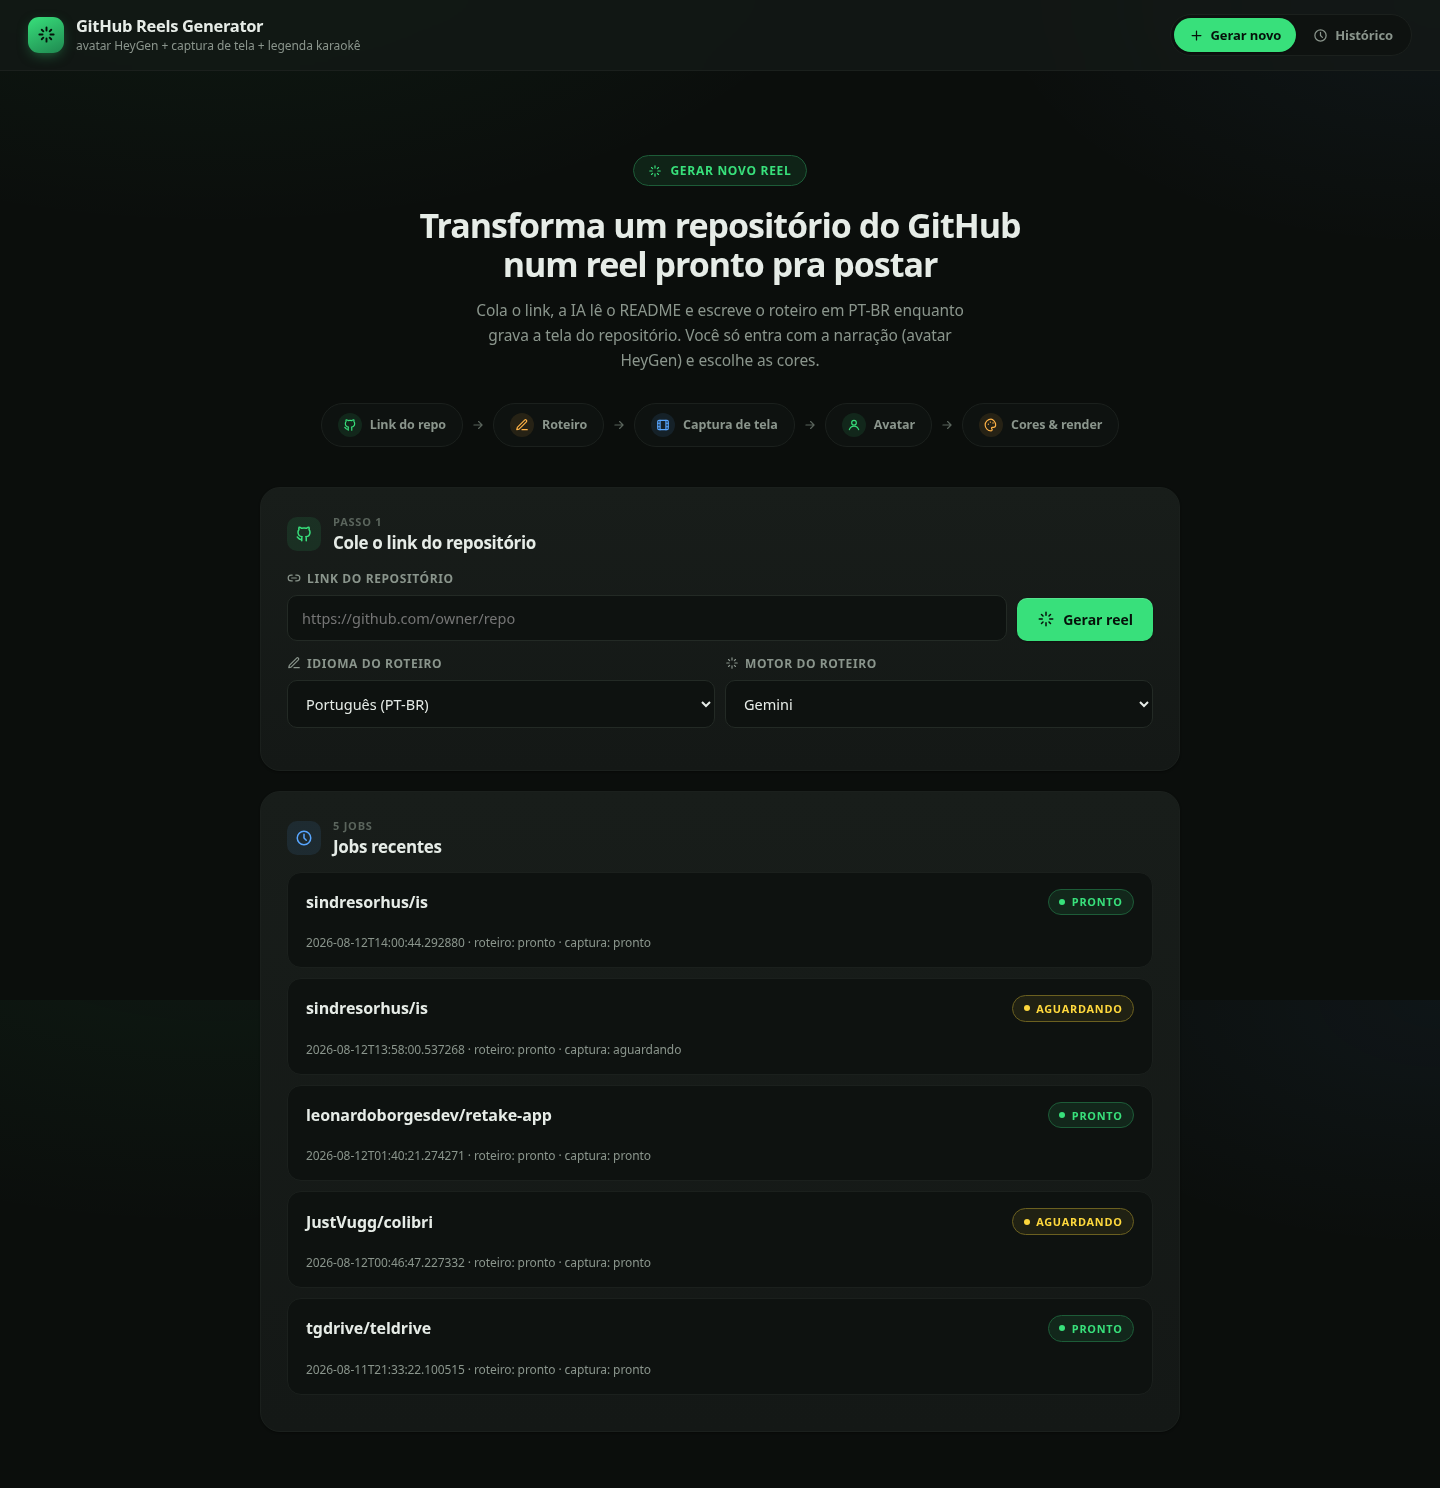
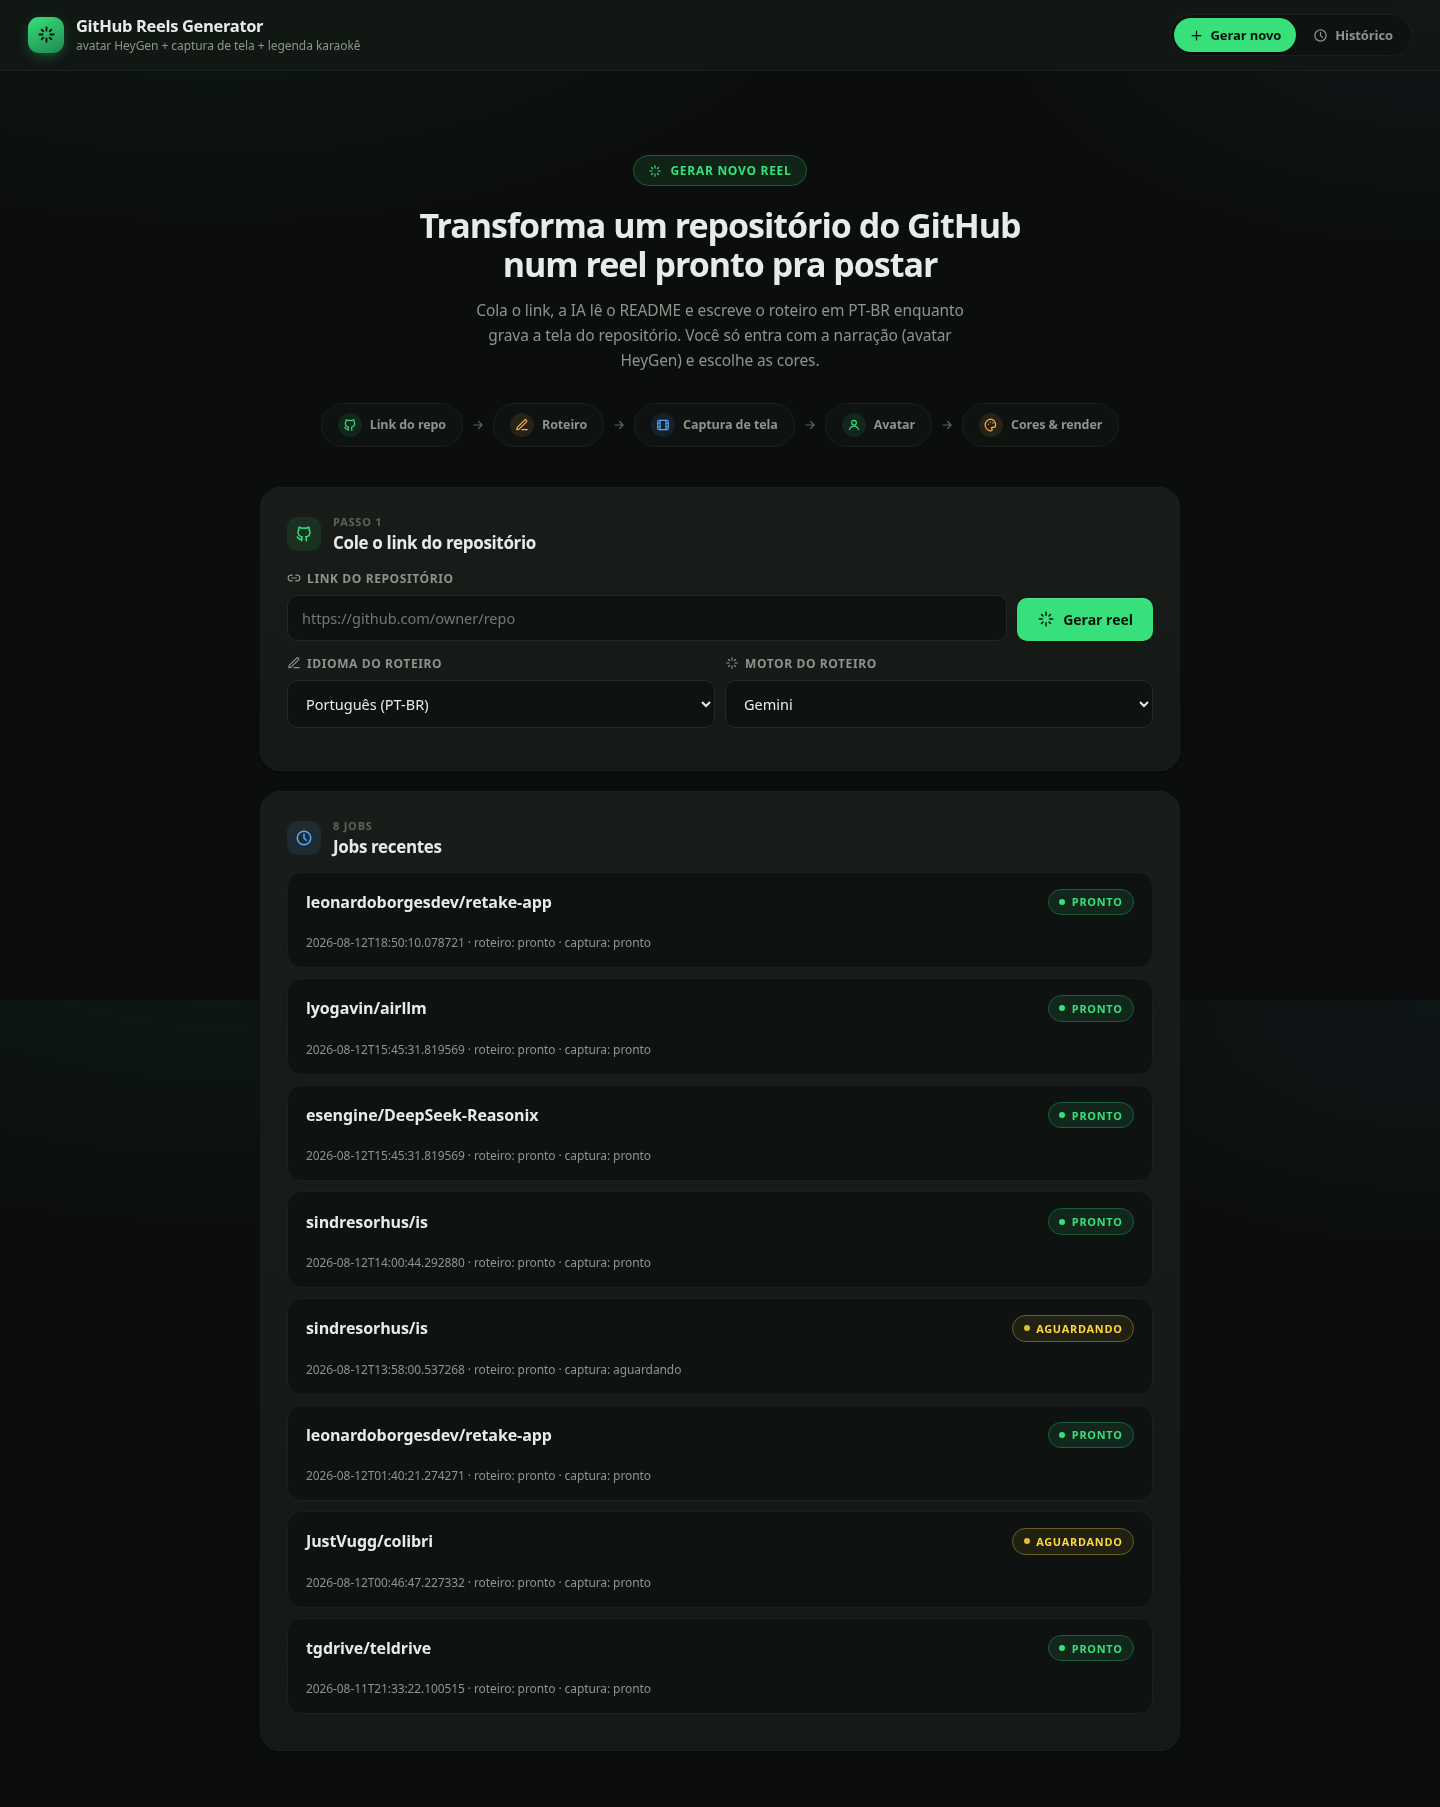
docs: atualiza screenshots com o app atual (wizard 7 etapas, seletor idioma/IA, remodelar, historico)
Prints antigos eram de antes do seletor de idioma/motor de IA, do
wizard reorganizado em fases e do botao de abrir no FreeCut.

diff --git a/README.md b/README.md
@@ -17,7 +17,7 @@ Em ambos, depois é só subir o vídeo do avatar (clonado num serviço tipo HeyG
 
 ## Features
 
-- **Roteiro por IA** — Gemini ou Claude (com fallback heurístico se os dois falharem), lendo descrição + README real do repositório via API do GitHub
+- **Roteiro por IA** — Gemini ou Claude (você escolhe o motor a cada job, com fallback heurístico se os dois falharem), em PT-BR ou inglês, lendo descrição + README real do repositório via API do GitHub
 - **Captura de tela automática** — Playwright rola a página do repositório sozinho (README, código, gráficos) e grava em 1080×1920
 - **Avatar circular com moldura animada** — detecção de rosto (OpenCV) recorta e centraliza automaticamente o avatar clonado, com anel decorativo girando (`hue` rotation no ffmpeg) e cutaways em tela cheia nos momentos certos
 - **Legenda estilo karaokê** — transcrição palavra-a-palavra (faster-whisper) vira legenda `.ass` com a palavra atual destacada em cor, sincronizada por timestamp
@@ -40,21 +40,25 @@ A dashboard (Flask) guarda o estado de cada job em disco (`dashboard/jobs/<id>/s
 
 ## Screenshots
 
-| Roteiro gerado | Captura de tela |
-|---|---|
-| ![roteiro](docs/screenshots/02_roteiro_gerado.png) | ![captura](docs/screenshots/03_captura_de_tela.png) |
+**Tela inicial** — cola o link, escolhe idioma e motor de IA (Gemini ou Claude), acompanha os jobs recentes:
 
-| Upload do avatar | Cores |
-|---|---|
-| ![avatar](docs/screenshots/04_upload_avatar.png) | ![cores](docs/screenshots/05_cores.png) |
+![Tela inicial](docs/screenshots/01_tela_inicial.png)
 
-| Música de fundo | Resultado final |
-|---|---|
-| ![musica](docs/screenshots/06_musica.png) | ![resultado](docs/screenshots/07_resultado_final.png) |
+**Wizard de 7 etapas** (Análise → Roteiro → Captura de tela → Avatar → Cores → Música & render → Resultado) — cada fase confirma o que a IA leu antes de seguir:
 
-| Histórico |
-|---|
-| ![historico](docs/screenshots/08_historico.png) |
+![Análise do repositório](docs/screenshots/02_analise_repositorio.png)
+
+**Modo Remodelar** — reaproveita um reel de referência, mostra o preview exato de como o avatar novo vai cobrir o original antes de compor:
+
+![Remodelar - referência](docs/screenshots/03_remodelar_referencia.png)
+
+**Slots do modo Remodelar** — status de roteiro/avatar por reel, upload direto pela dashboard (sem `scp`):
+
+![Slots do Remodelar](docs/screenshots/04_tela_remodelar_slots.png)
+
+**Histórico** — todos os vídeos já compostos, dos dois modos, com download e "abrir no editor" (FreeCut) direto do card:
+
+![Histórico](docs/screenshots/05_historico.png)
 
 ## Tech Stack
 
